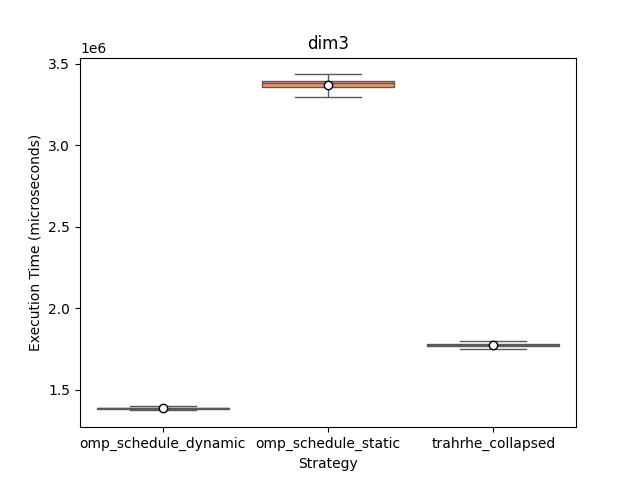
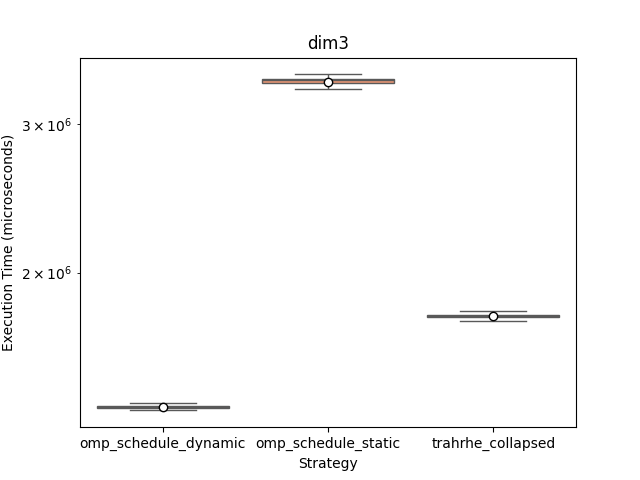
reportss

diff --git a/performance_tests/make_report.py b/performance_tests/make_report.py
@@ -28,8 +28,10 @@ for subfolder in subfolders:
 df = pd.DataFrame(data, columns=['Strategy', 'test', 'Execution Time (microseconds)'])
 
 # create the report
+# use logaritmic scale on y axis
 for test_name, test in zip(test_names, tests):
     plt.figure()
+    plt.yscale('log')
     sns.boxplot(x='Strategy', y='Execution Time (microseconds)', data=df[df['test'] == test], showfliers=False, showmeans=True, meanprops={"marker":"o","markerfacecolor":"white", "markeredgecolor":"black"}, palette='Set2', hue='Strategy')
     plt.title(test_name)
     plt.savefig(os.path.join(performance_tests_dir, test_name + '.png'))
